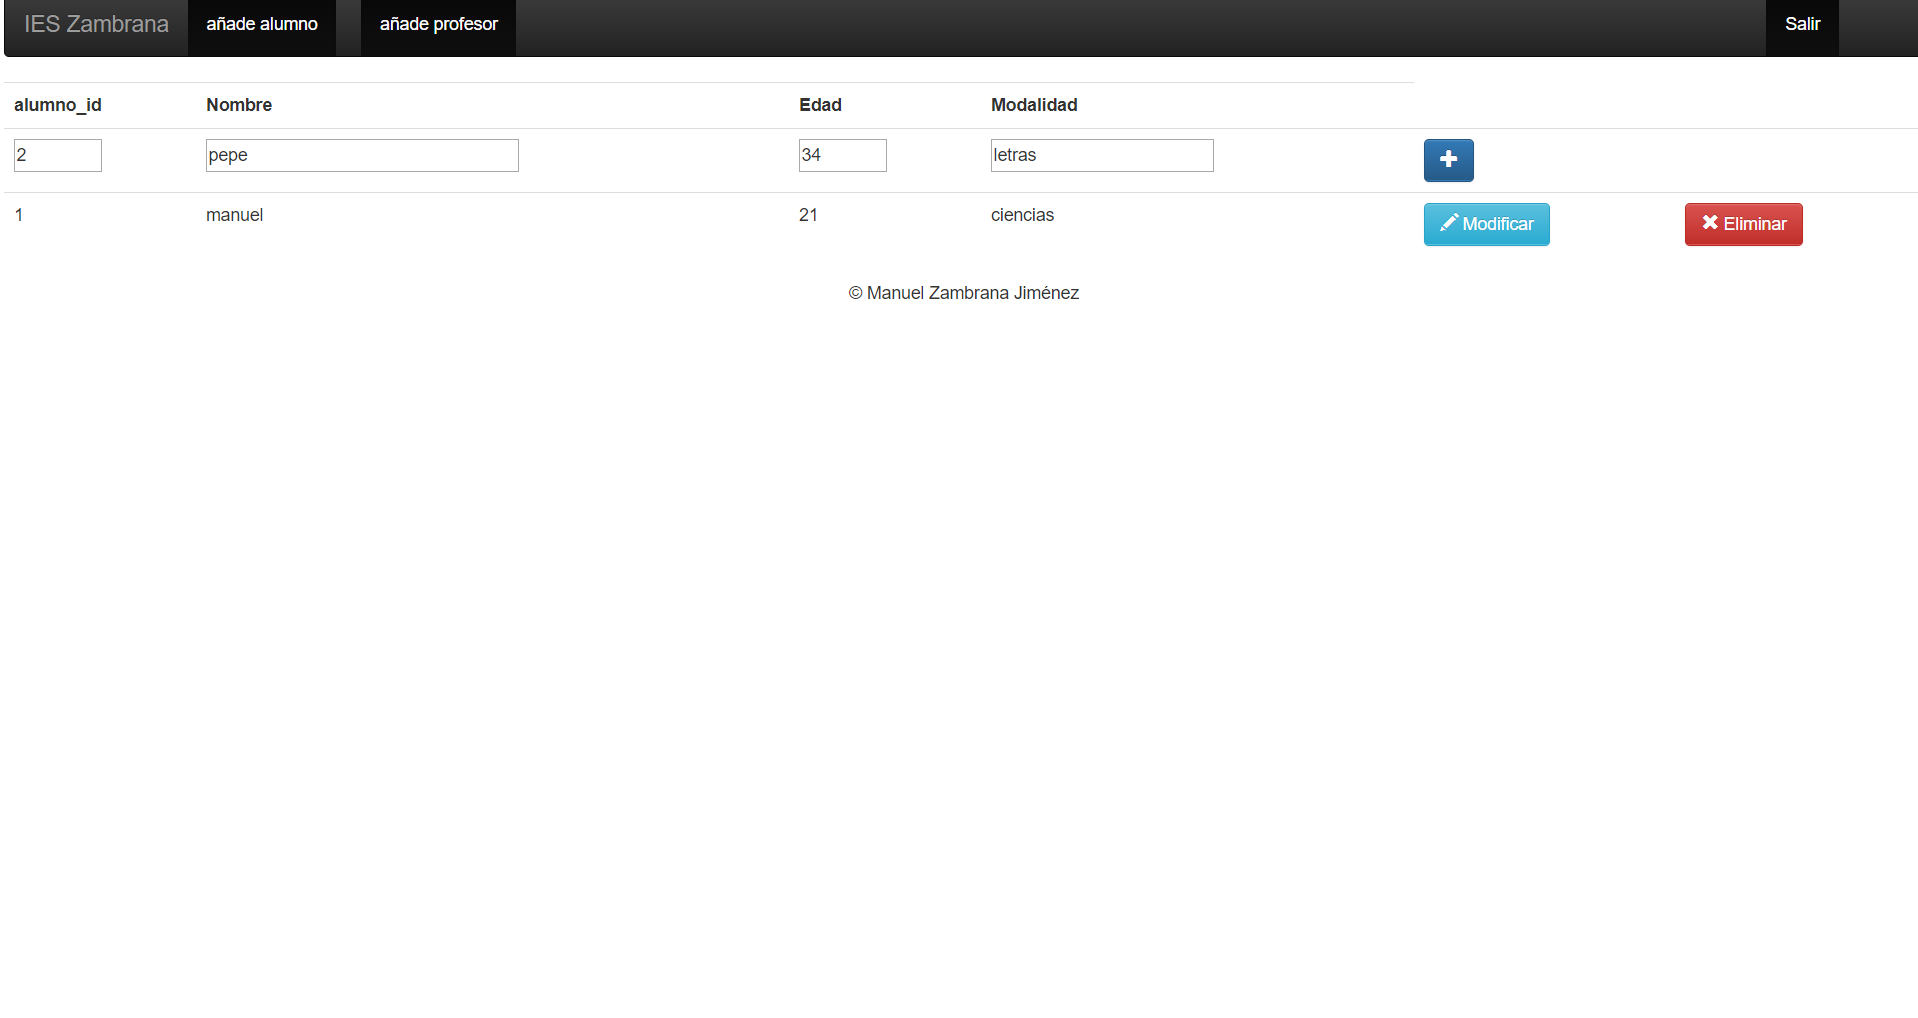
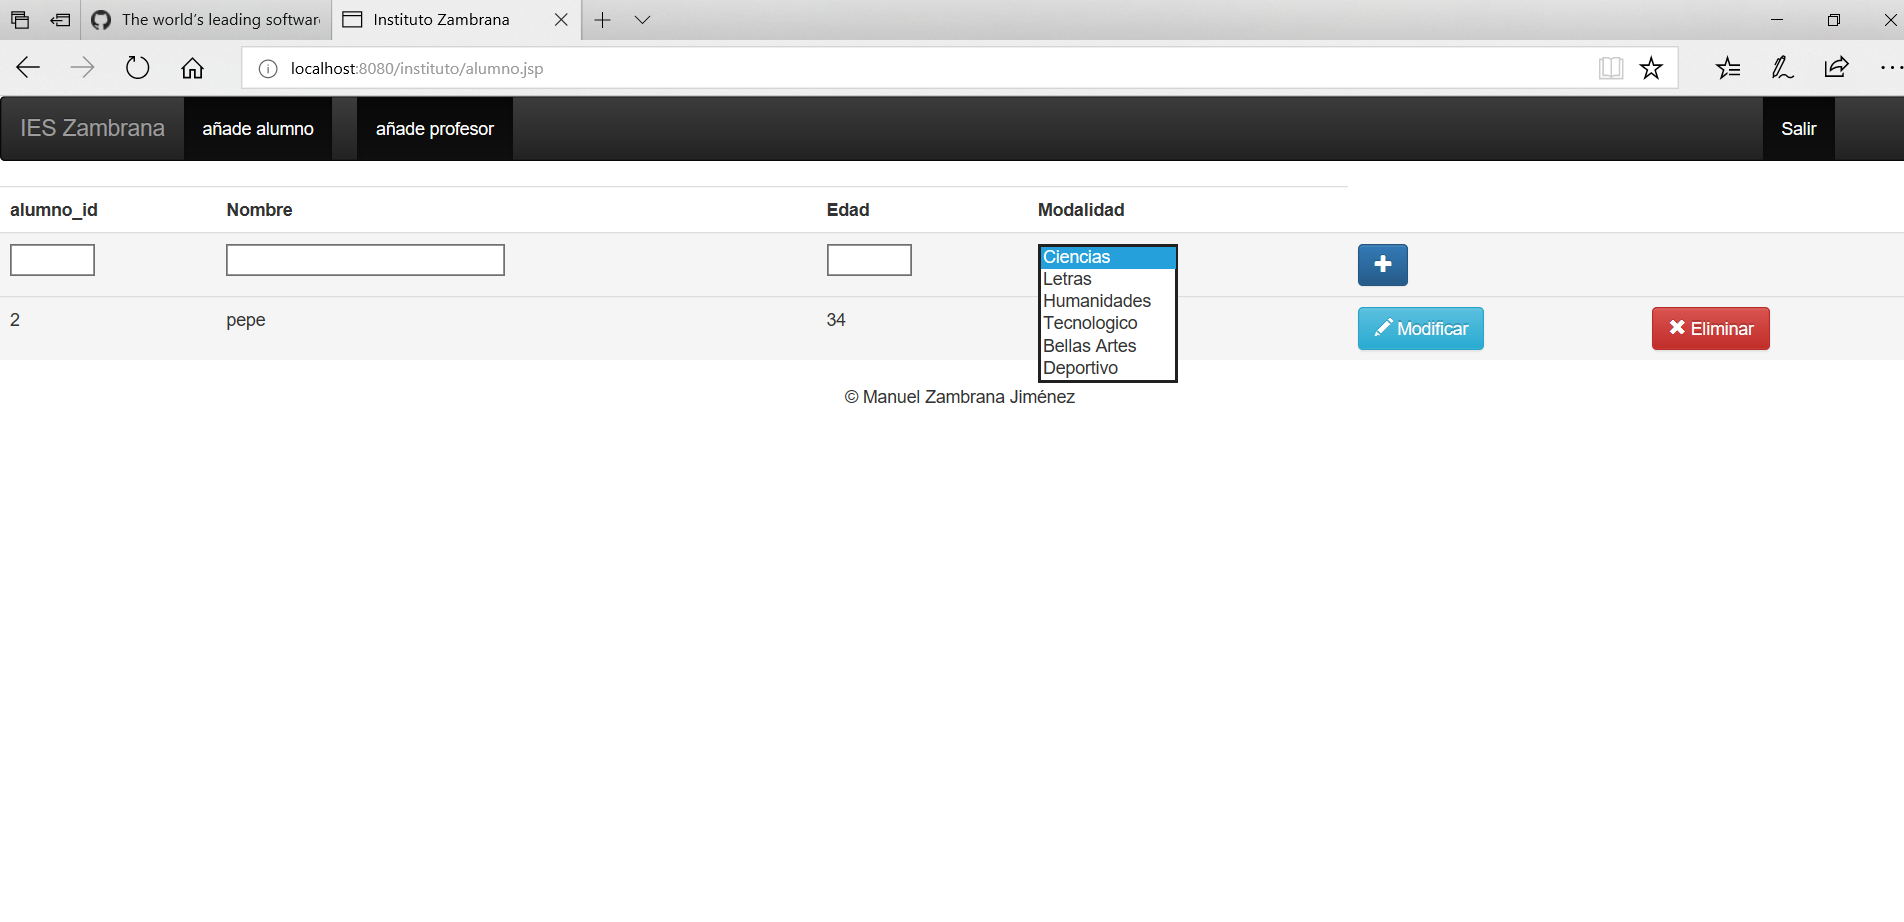
Subiendo Crud

diff --git a/README.md b/README.md
@@ -3,8 +3,8 @@
 Este ejercicio consistirá en un CRUD sobre los datos de un instituto, donde tendremos tablas como: Alumnos, Profesores, asiganturas,material etc...
 
 
-El inicio sesión del crud costa de un E-mail y contraseña para poder entrar
-(Vale cualquiera ya que no hay registro de usuario)
+El inicio sesión del crud costa de un usuario y contraseña para poder entrar
+(root,root usuario,usuario admin,admin)
 
 <img src="imagenes/inicioSesion.png" width="700px">
 
@@ -15,6 +15,7 @@ Aquí podremos ver una barra de navegación también
 
 
 En añade alumnos podremos entrar a una pestaña para poder añadir alumnos
+y podemos elegir una modalidad con un arraylist
 <img src="imagenes/alumno.png" width="700px">
 
 Eliminar (como el alumno con id 1)
